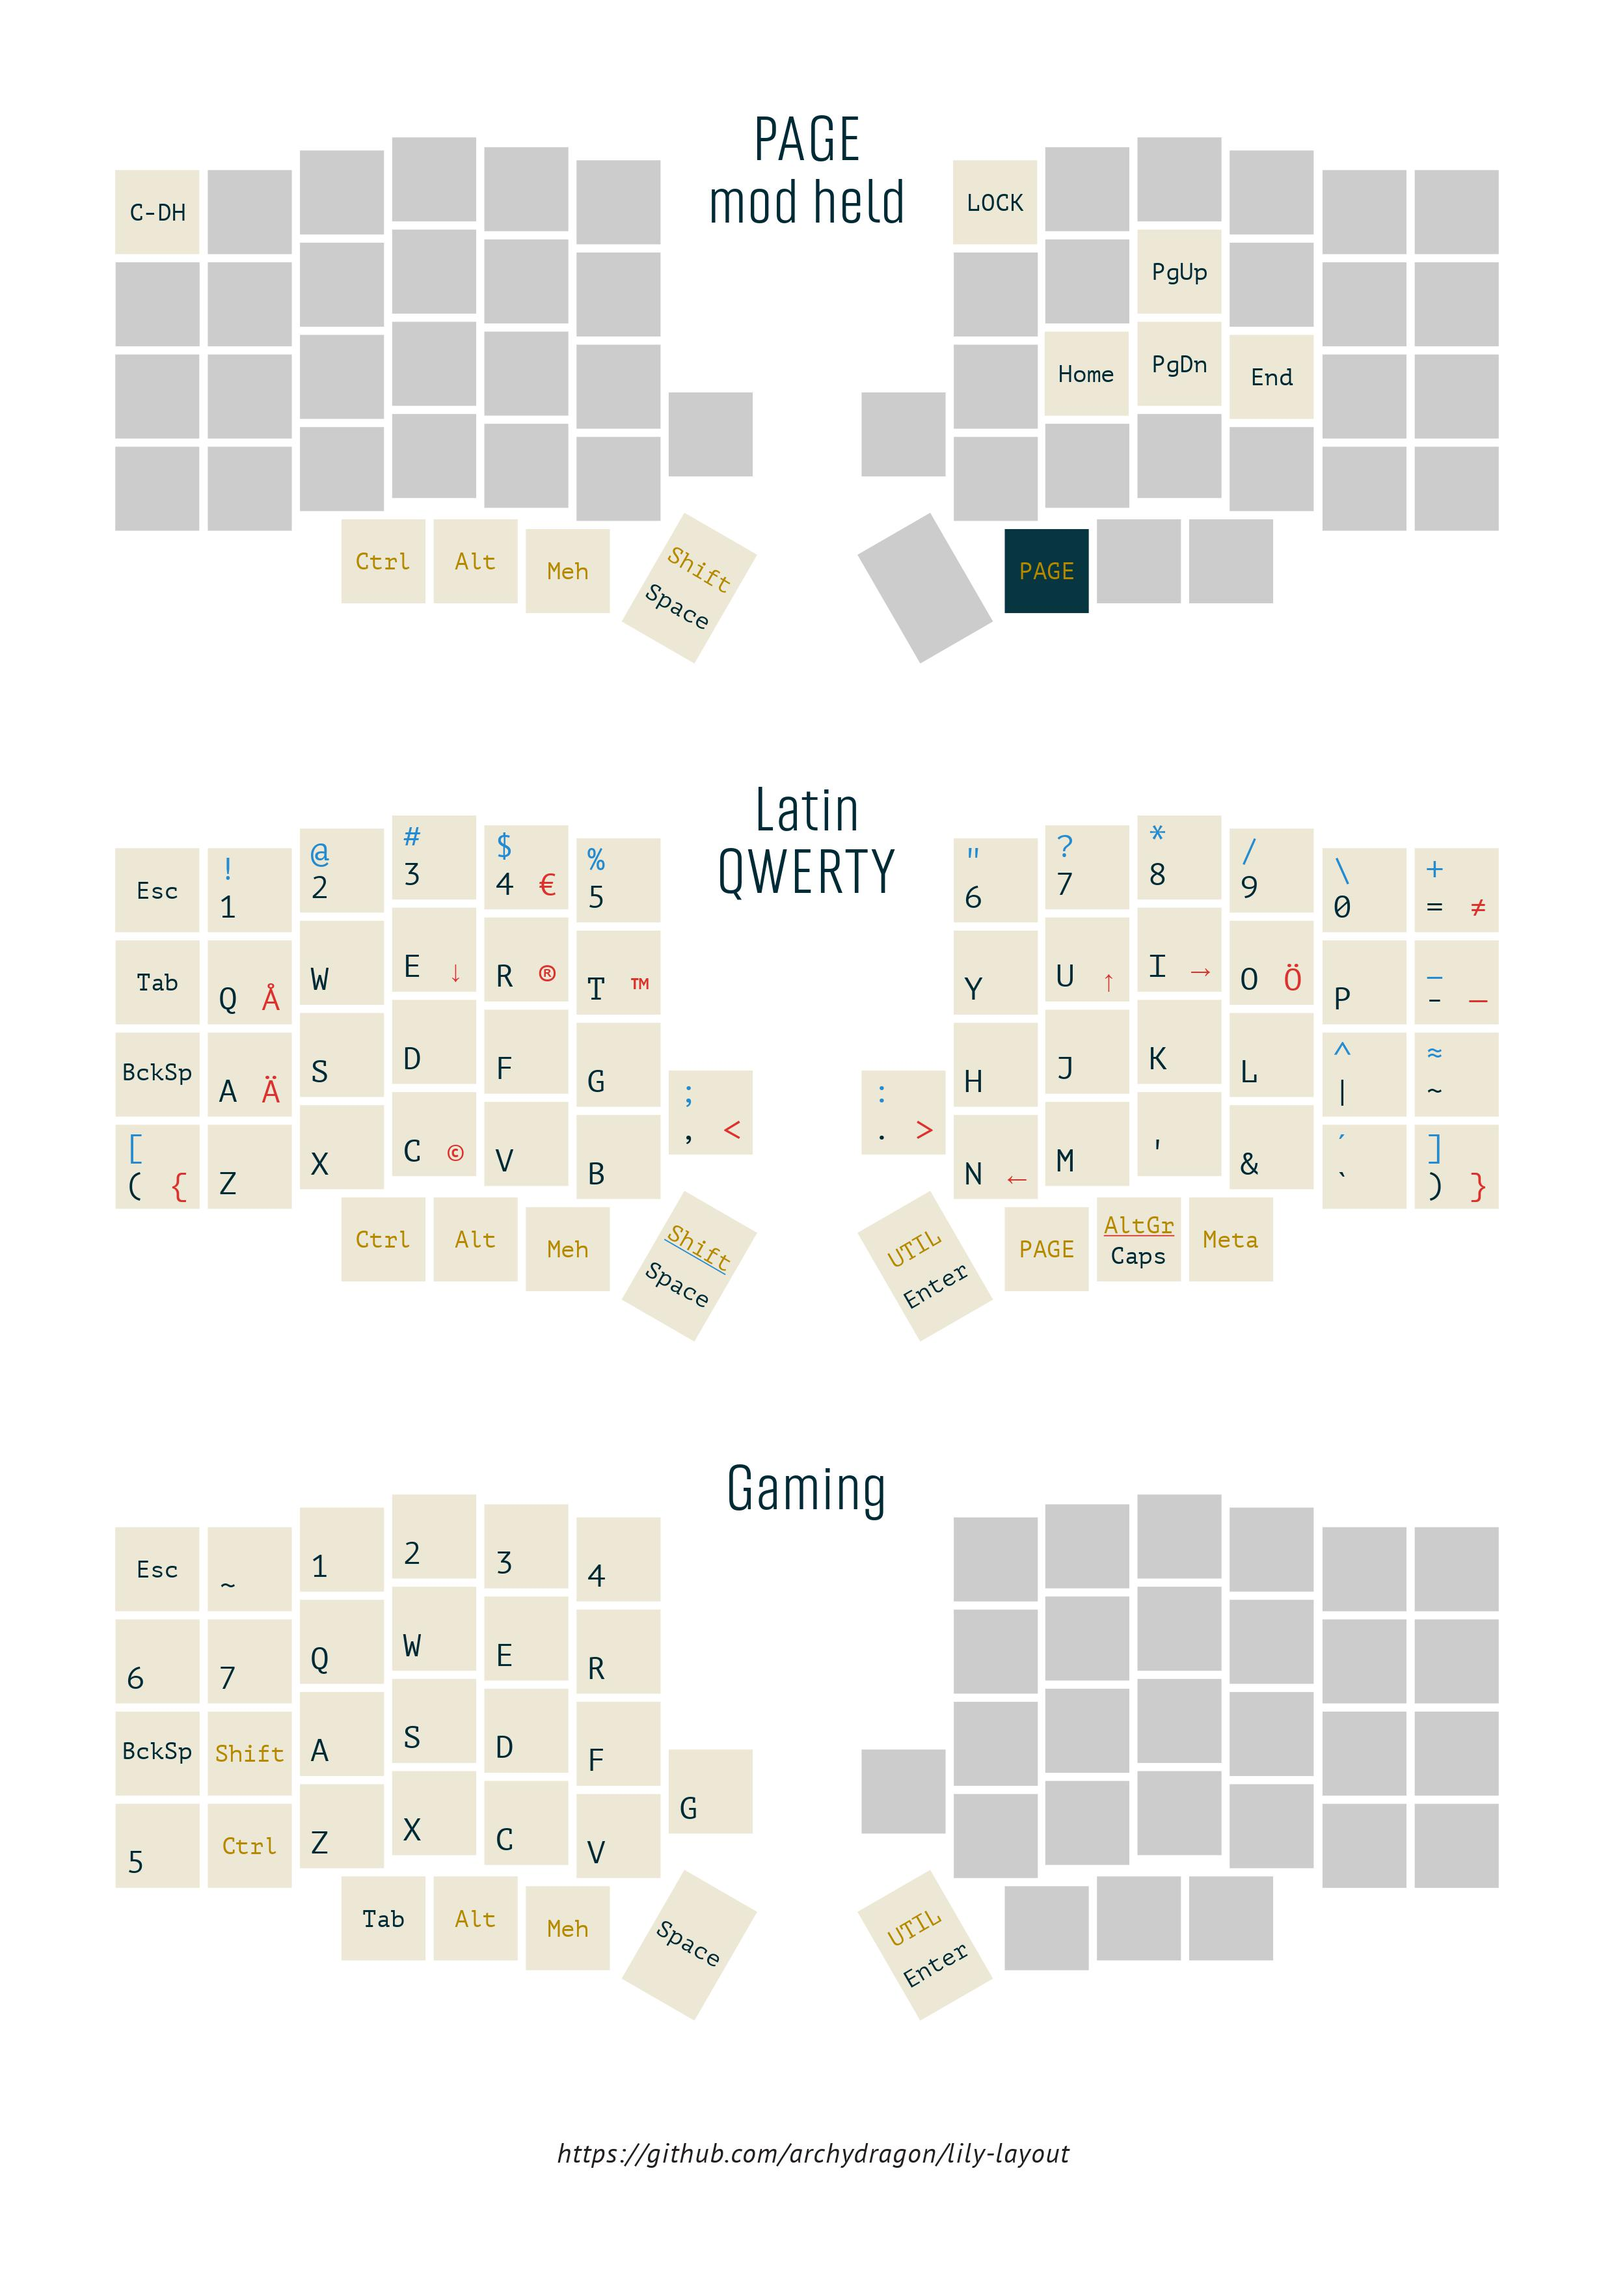
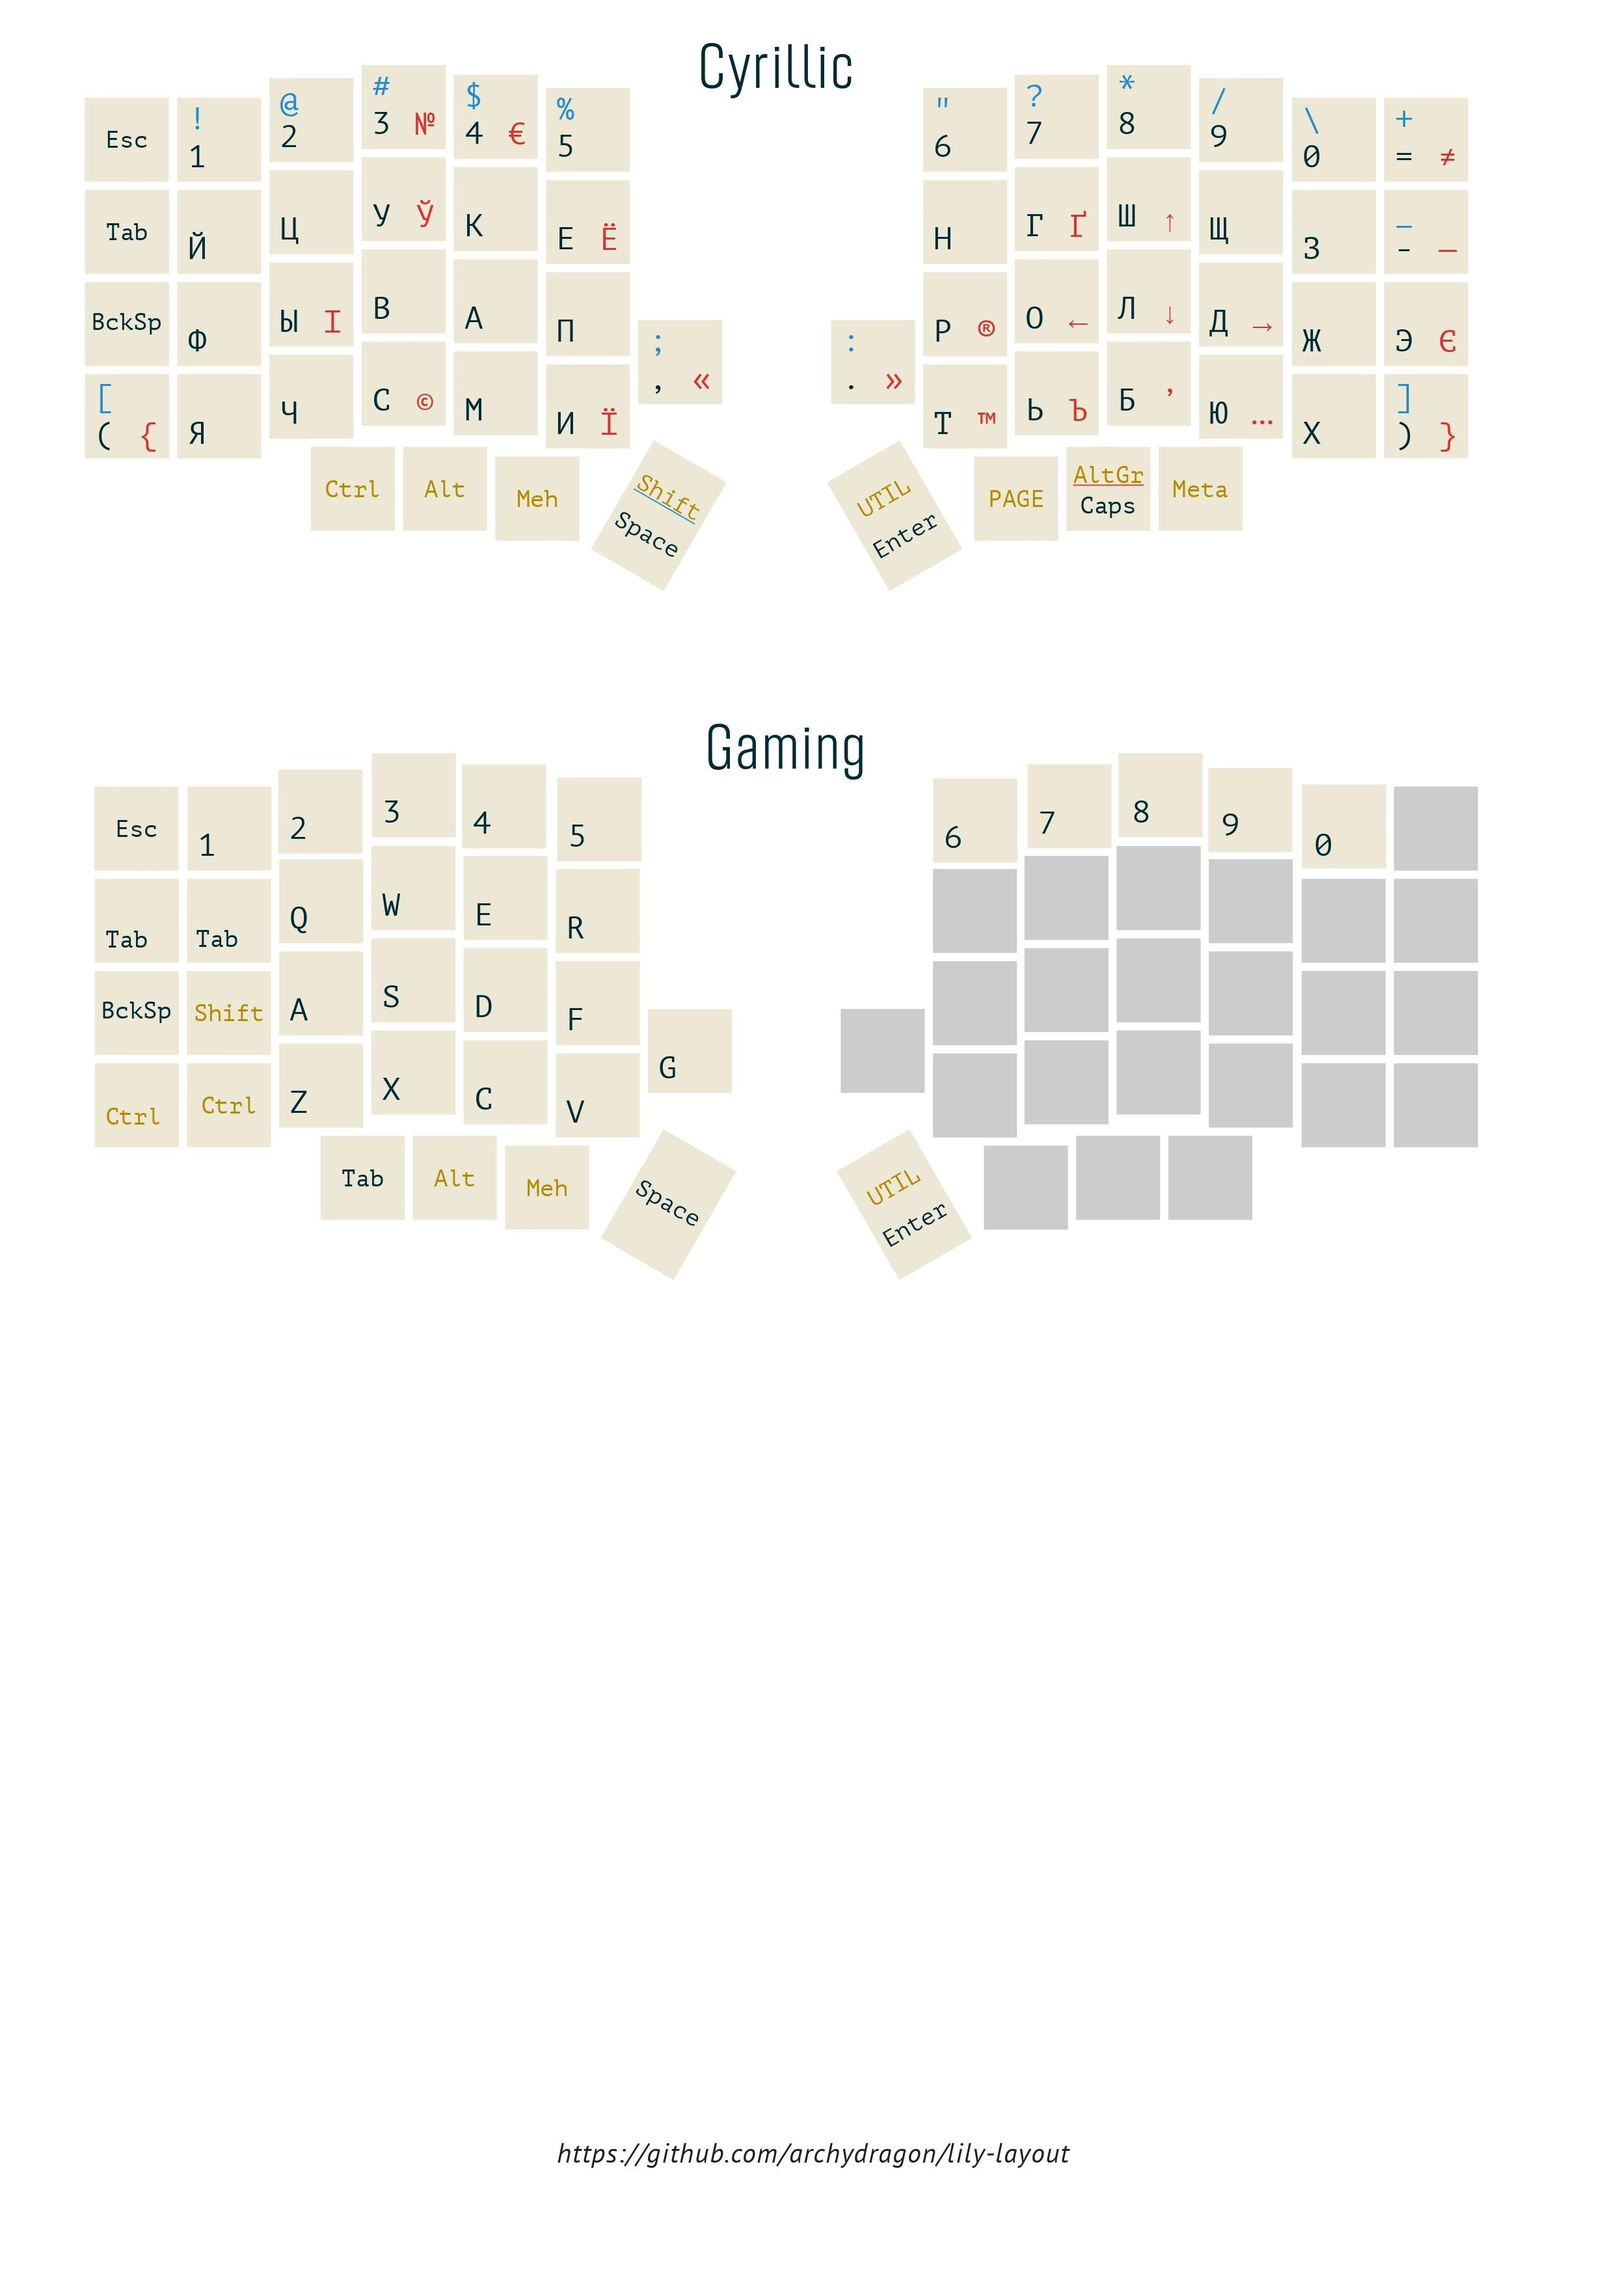
gaming layout corrected

diff --git a/keymap.c b/keymap.c
@@ -55,13 +55,13 @@ const uint16_t PROGMEM keymaps[][MATRIX_ROWS][MATRIX_COLS] = {
 
 /* Gaming layout
  * ,-----------------------------------------.                    ,-----------------------------------------.
- * | ESC  |   `  |   1  |   2  |   3  |   4  |                    |      |      |      |      |      |      |
+ * | ESC  |   1  |   2  |   3  |   4  |   5  |                    |  6   |  7   |  8   |   9  |  0   |      |
  * |------+------+------+------+------+------|                    |------+------+------+------+------+------|
- * |   6  |   7  |   Q  |   W  |   E  |   R  |                    |      |      |      |      |      |      |
+ * | Tab  | Tab  |   Q  |   W  |   E  |   R  |                    |      |      |      |      |      |      |
  * |------+------+------+------+------+------|                    |------+------+------+------+------+------|
  * | BcSp | Shift|   A  |   S  |   D  |   F  |-------.    ,-------|      |      |      |      |      |      |
  * |------+------+------+------+------+------|   G   |    |    .  |------+------+------+------+------+------|
- * |   5  | Ctrl |   Z  |   X  |   C  |   V  |-------|    |-------|      |      |      |      |      |      |
+ * | Ctrl | Ctrl |   Z  |   X  |   C  |   V  |-------|    |-------|      |      |      |      |      |      |
  * `-----------------------------------------/       /     \ UTIL \-----------------------------------------'
  *                   |  Tab | LAlt |  Meh | / Space /       \[Entr]\  |      |      |      |
  *                   |      |      |      |/       /         \      \ |      |      |      |
@@ -69,10 +69,10 @@ const uint16_t PROGMEM keymaps[][MATRIX_ROWS][MATRIX_COLS] = {
  */
 
  [_GAME] = LAYOUT( \
-   KC_ESC,  KC_GRV, KC_1,   KC_2,    KC_3,   KC_4,                             _______, _______, _______, _______, _______, _______, \
-     KC_6,    KC_7, KC_Q,   KC_W,    KC_E,   KC_R,                             _______, _______, _______, _______, _______, _______, \
-  KC_BSPC, KC_LSFT, KC_A,   KC_S,    KC_D,   KC_F,                             _______, _______, _______, _______, _______, _______, \
-     KC_5, KC_LCTL, KC_Z,   KC_X,    KC_C,   KC_V,   KC_G,  _______,           _______, _______, _______, _______, _______, _______, \
+   KC_ESC,  KC_1,  KC_2,   KC_3,    KC_4,   KC_5,                             KC_6,    KC_7,   KC_8,   KC_9,    KC_0, _______, \
+    KC_TAB, KC_TAB, KC_Q,   KC_W,    KC_E,   KC_R,                             _______, _______, _______, _______, _______, _______, \
+    KC_BSPC, KC_LSFT, KC_A,   KC_S,    KC_D,   KC_F,                             _______, _______, _______, _______, _______, _______, \
+    KC_LCTL, KC_LCTL, KC_Z,   KC_X,    KC_C,   KC_V,   KC_G,  _______,           _______, _______, _______, _______, _______, _______, \
                           KC_TAB, KC_LALT, KC_MEH, KC_SPC,  LT(_UTIL,KC_ENT),  _______, _______, _______ \
 ),
 
